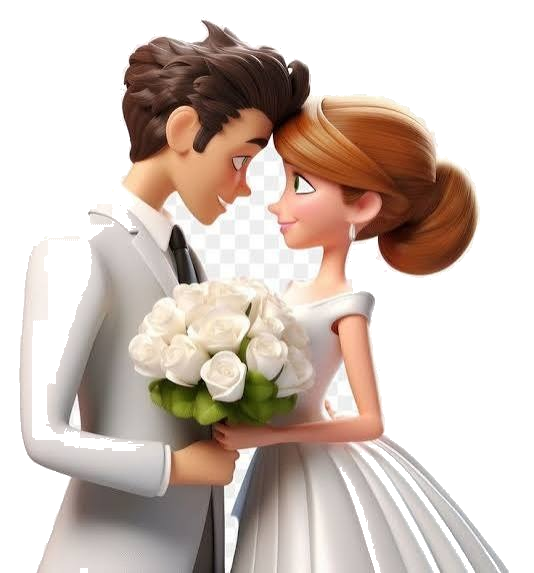
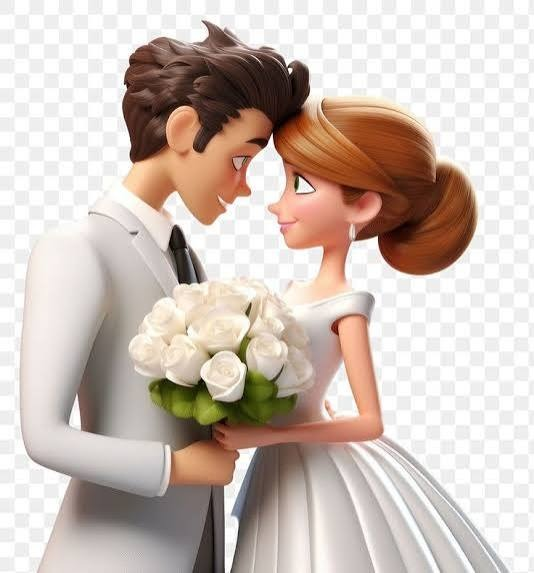
Restore original engagement couple image as uploaded

diff --git a/index.html b/index.html
@@ -324,7 +324,7 @@
           <div class="itinerary-card reveal-item tilt-card stagger-1">
             <div class="event-card-inner">
               <div class="event-illustration-frame">
-                <img src="assets/images/event_engagement_couple.png" alt="Engagement Ceremony Couple" class="event-couple-img" loading="lazy" decoding="async">
+                <img src="assets/images/event_engagement_couple.jpg" alt="Engagement Ceremony Couple" class="event-couple-img" loading="lazy" decoding="async">
               </div>
               <img src="assets/images/gold_flourish.png" alt="Gold Flourish" class="event-flourish" loading="lazy" decoding="async">
               <div class="event-type-badge">Engagement</div>
